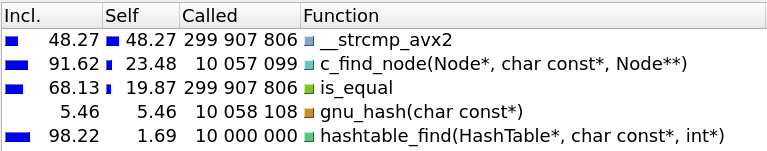
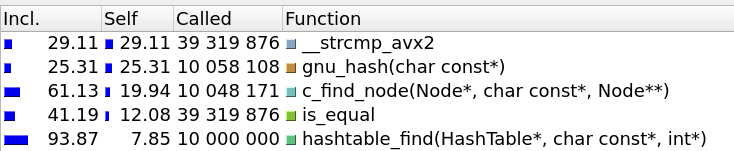
Fix table size
Also update measurements in README.md

diff --git a/source/table.cpp b/source/table.cpp
@@ -5,7 +5,7 @@
 
 
 /// Hash table possible hash values
-const size_t TABLE_BUFFER_SIZE = 1009u;
+const size_t TABLE_BUFFER_SIZE = 9973u;
 
 /// Amount of hashtable_find() to perform
 const size_t FIND_NUMBER = 10000000;

diff --git a/README.md b/README.md
@@ -19,7 +19,7 @@
 ### Ход работы
 
 
-Замерять время работы программы будем с помощью утилиты *perf*, профилировать будем через *valgrind* с инструментами callgrind и *KCachegrind*. Размер таблицы возьмем фиксированным и равным *1009*.
+Замерять время работы программы будем с помощью утилиты *perf*, профилировать будем через *valgrind* с инструментами callgrind и *KCachegrind*. Размер таблицы возьмем фиксированным и равным *9973*. Средняя длина списка составляет *6* элементов.
 
 
 #### Версия 0 (begin)
@@ -33,7 +33,7 @@ conv.exe [input-filename] [output-filename]
 
 | Время работы(*мс*) | Абсолютное | Относительное | Погрешность |
 |:------------------ |:---------- |:------------- |:----------- |
-| 4311               | 1          | 1             | 1.84%       |
+| 941                | 1          | 1             | 1.87%       |
 
 *Абсолютное - ускорение, относительно версии 0. Относительное - ускорение относительно предыдущей версии. Погрешность - относительная погрешность измерения времени.*
 
@@ -46,7 +46,7 @@ conv.exe [input-filename] [output-filename]
 #### Версия 1 (fastcmp)
 
 
-Как видно из вывода callgrind, наибольшее время занимает сравнение строк (время функции *is_equal* + *__strcmp_avx2*). Так как каждая строка выровнена на 32 байта и имеет размер кратный 32 байтам, то мы можем использовать SIMD инструкции для быстрого сравнения сразу 32 байт.
+Как видно из вывода callgrind, наибольшее время занимает сравнение строк (время функций *is_equal* + *__strcmp_avx2*). Так как каждая строка выровнена на 32 байта и имеет размер кратный 32 байтам, то мы можем использовать SIMD инструкции для быстрого сравнения сразу 32 байт.
 
 ```C
 while (1) {
@@ -68,17 +68,51 @@ return 1;
 
 | Время работы(*мс*) | Абсолютное | Относительное | Погрешность |
 |:------------------ |:---------- |:------------- |:----------- |
-| 3919               | 1.1        | 1.1           | 1.27%       |
+| 832                | 1.13       | 1.13          | 1.71%       |
 
 Вывод профайлера:
 
 ![profile(fastcmp)](assets/profile(fastcmp).png "Profile data for version with fastcmp optimization")
 
 
-#### Версия 2 (find_node)
+#### Версия 2 (crc32)
 
 
-Как видно из вывода callgrind, время занимаемое is_equal уменьшилось на 24%, поэтому оптимизировать его дальше не имеет смысла. Следующим идет поиск в связном списке. Мы напишем свою ассемблерную реализацию этой функции. Так как компилятор генерирует код для общего случая, то наша специализированная реализация будет быстрее. Для ознакомления приведем фрагмент реализации цикла, полный код можно найти в файле *source/find_node.s*.
+Как видно из вывода callgrind, время занимаемое is_equal уменьшилось на 18%, и наиболее затратной по времени стала функция хеширования. В предыдущих версиях мы использовали алгоритм gnu_hash, теперь мы заменим его аппаратно поддерживаемым crc32. Реализуем его с помощью директивы *asm*, которая позволяет напрямую вставлять ассемблерный код в функции C, при этом отключая встроенные в компилятор оптимизации.
+
+```C
+hash_t sum = 0;
+
+asm(".intel_syntax noprefix     \n\t"
+    "xor %0, %0                 \n\t"
+    ".loop:                     \n\t"
+    "crc32 %0, QWORD PTR [%1]   \n\t"
+    "cmp BYTE PTR [%1+7], 0     \n\t"
+    "je .finish                 \n\t"
+    "add %1, 8                  \n\t"
+    "jmp .loop                  \n\t"
+    ".finish:                   \n\t"
+    :"=r"(sum)
+    :"r"(key)
+    :"cc"
+);
+
+return sum;
+```
+
+| Время работы(*мс*) | Абсолютное | Относительное | Погрешность |
+|:------------------ |:---------- |:------------- |:----------- |
+| 703                | 1.31       | 1.18          | 3.57%       |
+
+Вывод профайлера:
+
+![profile(crc32)](assets/profile(crc32).png "Profile data for version with crc32 optimization")
+
+
+#### Версия 3 (find_node)
+
+
+Как видно из вывода callgrind, время занимаемое функцией хеширования уменьшилось на 28%, что вывело на первое место по временным затратам функцию поиска в связном списке. Мы напишем свою ассемблерную реализацию этой функции. Так как компилятор генерирует код для общего случая, то наша специализированная реализация будет быстрее. Для ознакомления приведем фрагмент реализации цикла, полный код можно найти в файле *source/find_node.s*.
 
 ```assembly
 asm_find_node:
@@ -112,45 +146,13 @@ asm_find_node:
 
 | Время работы(*мс*) | Абсолютное | Относительное | Погрешность |
 |:------------------ |:---------- |:------------- |:----------- |
-| 3839               | 1.12       | 1.02          | 1.78%       |
+| 683                | 1.34       | 1.03          | 2.02%       |
 
 Вывод профайлера:
 
 ![profile(find_node)](assets/profile(find_node).png "Profile data for version with find_node optimization")
 
-
-#### Версия 3 (crc32)
-
-
-Как видно из вывода callgrind, время занимаемое поиском элемента уменьшилось на 2%, поэтому оптимизировать его дальше не имеет смысла (в предыдущей версии функция называлась c_find_node, здесь это функция по адресу 0x402410). Следующей идет функция хеширования. В предыдущих версиях мы использовали алгоритм gnu_hash, теперь мы заменим его аппаратно поддерживаемым crc32. Реализуем его с помощью директивы *asm*, которая позволяет напрямую вставлять ассемблерный код в функции C, при этом отключая встроенные в компилятор оптимизации.
-
-```C
-hash_t sum = 0;
-
-asm(".intel_syntax noprefix     \n\t"
-    "xor %0, %0                 \n\t"
-    ".loop:                     \n\t"
-    "crc32 %0, QWORD PTR [%1]   \n\t"
-    "cmp BYTE PTR [%1+7], 0     \n\t"
-    "je .finish                 \n\t"
-    "add %1, 8                  \n\t"
-    "jmp .loop                  \n\t"
-    ".finish:                   \n\t"
-    :"=r"(sum)
-    :"r"(key)
-    :"cc"
-);
-
-return sum;
-```
-
-| Время работы(*мс*) | Абсолютное | Относительное | Погрешность |
-|:------------------ |:---------- |:------------- |:----------- |
-| 3744               | 1.15       | 1.03          | 3.74%       |
-
-Вывод профайлера:
-
-![profile(crc32)](assets/profile(crc32).png "Profile data for version with crc32 optimization")
+Наша функция (*функция по адресу 0x402400*) смогла обогнать реализацию -O3 всего на 3%. Дальнейшие ассемблерные оптимизации не имеют смысла и только навредят портируемости програмы.
 
 
 ### Результат
@@ -165,10 +167,10 @@ return sum;
 
 | Время работы(*мс*) | Абсолютное ускорение |  Погрешность |
 |:------------------ |:-------------------- |:------------ |
-| 3744               | 1.15                 | 5.57%        |
+| 683                | 1.34                 | 3.87%        |
 
 
 ### Вывод
 
 
-Использование различных ассемблерных оптимизаций позволило ускорить работу хеш-таблицы в 1.15 раз. Однако такие оптимизации портят портируемость кода и требуют индивидуального подхода к конкретному случаю.
+Использование различных ассемблерных оптимизаций позволило ускорить работу хеш-таблицы на 34%. Однако такие оптимизации портят портируемость кода и требуют индивидуального подхода к конкретному случаю.
